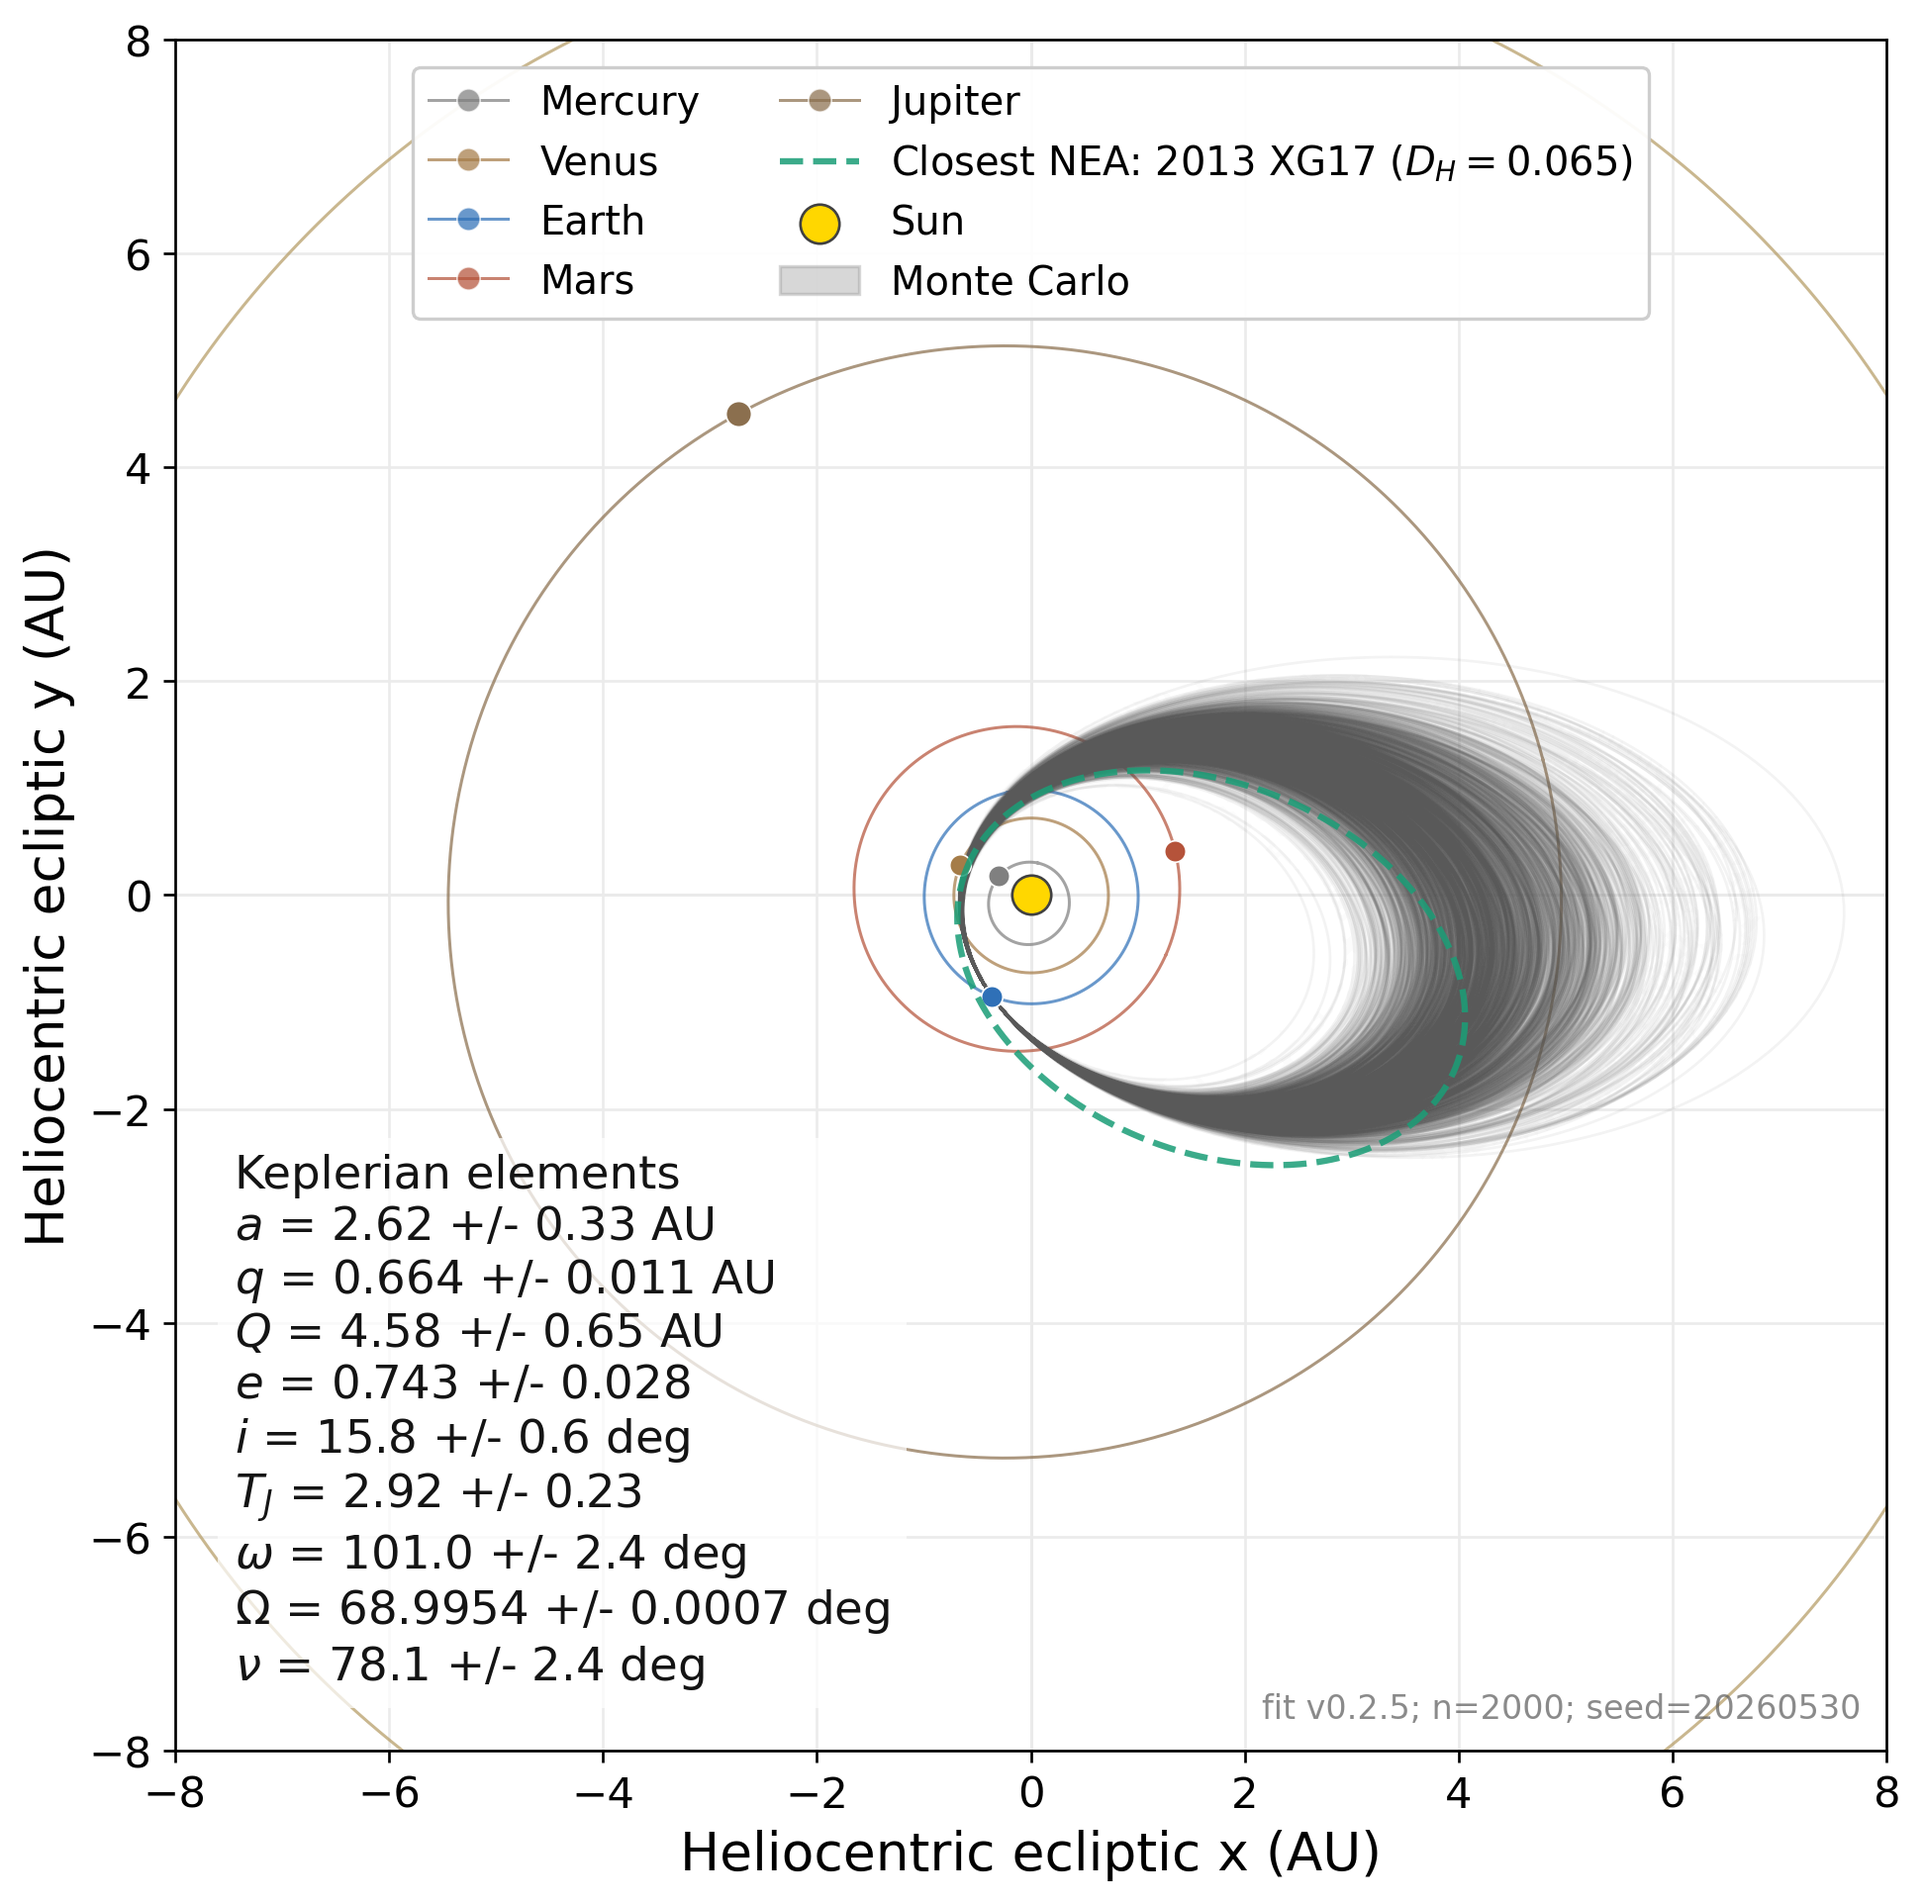
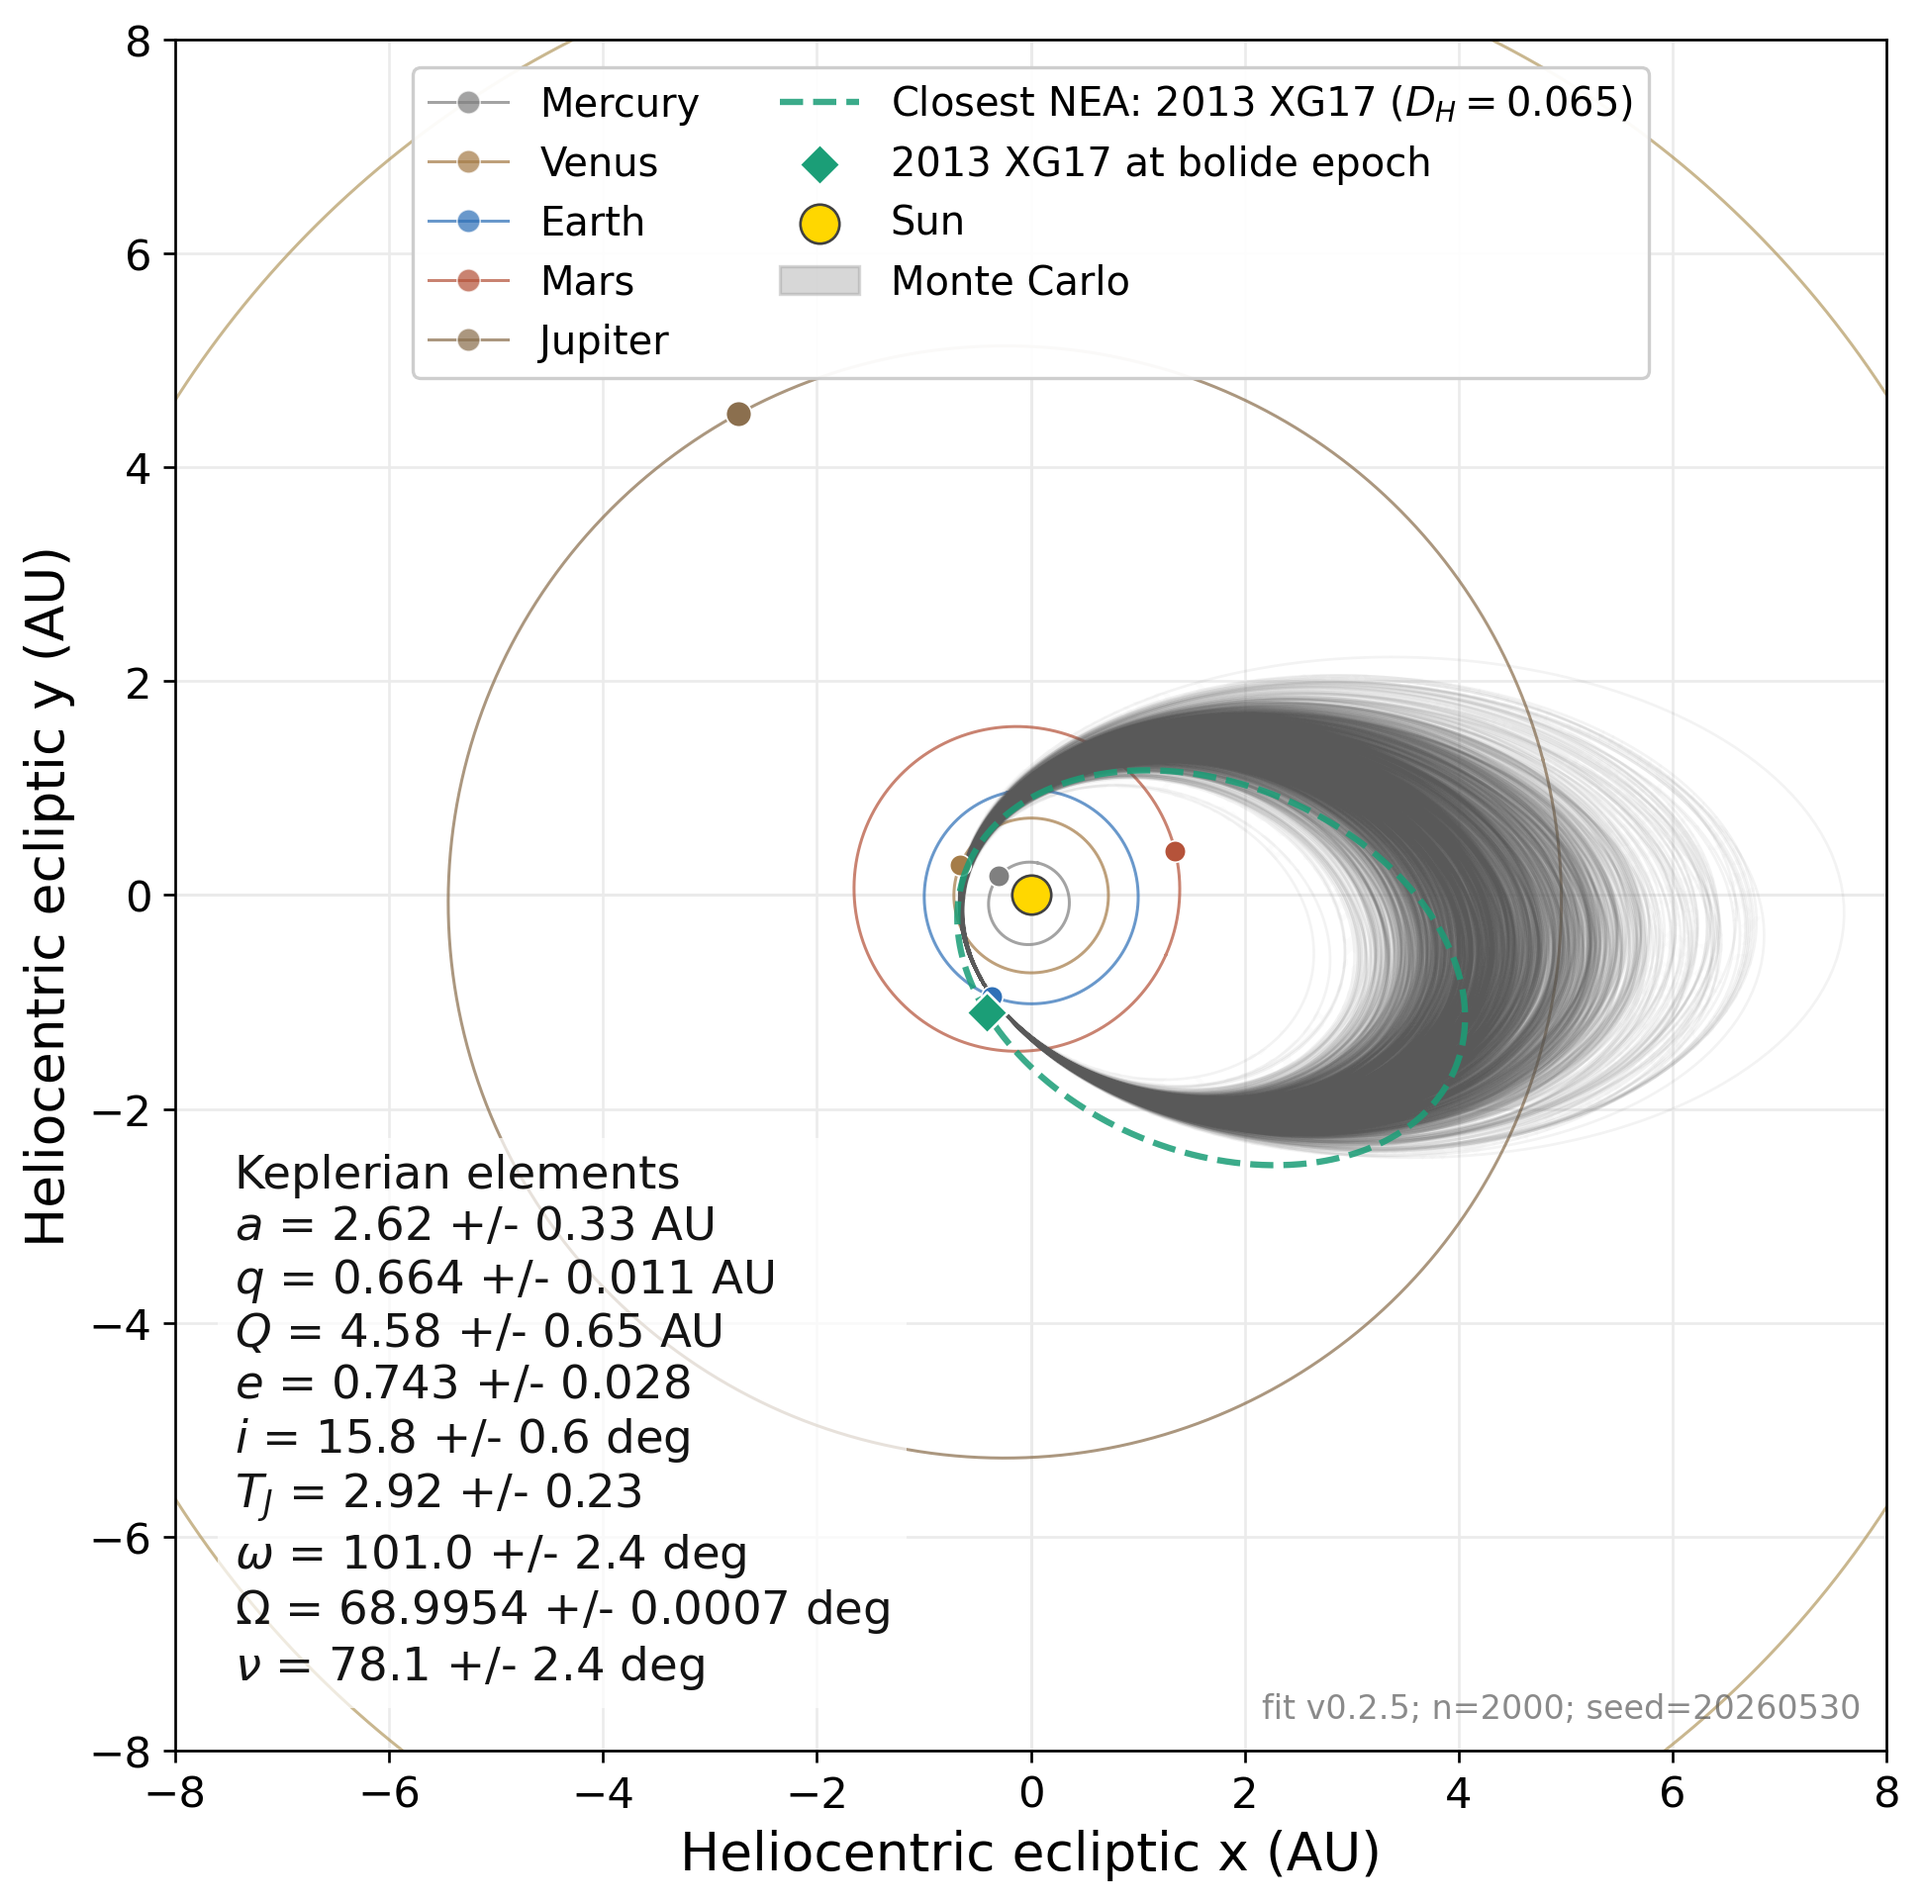
Mark closest NEA position at bolide epoch

diff --git a/plot_orbit_xy.py b/plot_orbit_xy.py
@@ -78,6 +78,25 @@ def true_anomaly_from_mean(mean_anomaly_deg: float, eccentricity: float) -> floa
     return float(np.rad2deg(true_anomaly) % 360.0)
 
 
+def mpc_packed_epoch_to_time(epoch: str) -> Time | None:
+    """Decode a five-character MPC packed epoch such as K25BL."""
+    epoch = epoch.strip()
+    if len(epoch) != 5:
+        return None
+    century_codes = {"I": 1800, "J": 1900, "K": 2000}
+    month_codes = {str(i): i for i in range(1, 10)}
+    month_codes.update({"A": 10, "B": 11, "C": 12})
+    day_codes = {str(i): i for i in range(1, 10)}
+    day_codes.update({chr(ord("A") + i): 10 + i for i in range(22)})
+    try:
+        year = century_codes[epoch[0]] + int(epoch[1:3])
+        month = month_codes[epoch[3]]
+        day = day_codes[epoch[4]]
+        return Time(f"{year:04d}-{month:02d}-{day:02d}T00:00:00", scale="utc")
+    except (KeyError, ValueError):
+        return None
+
+
 def planet_kepler(name: str, epoch: Time) -> np.ndarray:
     elements = PLANETS[name]
     centuries = (epoch.tdb.jd - J2000.jd) / 36525.0
@@ -275,7 +294,7 @@ def kepler_annotation_from_macros(macros: dict[str, str]) -> str | None:
     return "\n".join(lines)
 
 
-def read_closest_nea(path: Path) -> tuple[np.ndarray, str] | None:
+def read_closest_nea(path: Path, target_epoch: Time) -> tuple[np.ndarray, str, str] | None:
     if not path.exists():
         return None
     with path.open("r", encoding="utf-8", newline="") as fh:
@@ -289,13 +308,18 @@ def read_closest_nea(path: Path) -> tuple[np.ndarray, str] | None:
         argp = float(row["omega_deg"])
         raan = float(row["node_deg"])
         mean_anomaly = float(row["M_deg"])
+        mean_motion = float(row["n_deg_day"])
         dh = float(row["D_H"])
     except (KeyError, TypeError, ValueError):
         return None
+    catalog_epoch = mpc_packed_epoch_to_time(row.get("epoch", ""))
+    if catalog_epoch is not None:
+        mean_anomaly = mean_anomaly + mean_motion * (target_epoch.utc.jd - catalog_epoch.utc.jd)
     true_anomaly = true_anomaly_from_mean(mean_anomaly, e)
     name = row.get("name", "").strip() or row.get("number", "").strip() or "catalogue NEA"
-    label = f"Closest NEA: {name} ($D_H={dh:.3f}$)"
-    return np.array([a_au * AU, e, inc, argp, raan, true_anomaly], dtype=float), label
+    orbit_label = f"Closest NEA: {name} ($D_H={dh:.3f}$)"
+    position_label = f"{name} at bolide epoch"
+    return np.array([a_au * AU, e, inc, argp, raan, true_anomaly], dtype=float), orbit_label, position_label
 
 
 def draw_orbits(
@@ -305,7 +329,7 @@ def draw_orbits(
     epoch: Time,
     limits: tuple[float, float],
     label_names: set[str],
-    closest_nea: tuple[np.ndarray, str] | None,
+    closest_nea: tuple[np.ndarray, str, str] | None,
 ) -> int:
     for name in PLANETS:
         color = PLANET_COLORS[name]
@@ -366,9 +390,23 @@ def draw_orbits(
         now = orb_now.cartesian[:2, 0] / AU
         ax.scatter(now[0], now[1], marker="*", s=145, color="#d62728", edgecolor="white", linewidth=0.8, zorder=9, label="Nominal epoch state")
     if closest_nea is not None:
-        nea_kep, nea_label = closest_nea
+        nea_kep, nea_label, nea_position_label = closest_nea
         nx, ny = kepler_to_xy(nea_kep, n_points=1000)
         ax.plot(nx, ny, color="#1b9e77", lw=1.9, ls="--", alpha=0.86, label=nea_label, zorder=7)
+        nea_now = pyorb.Orbit(M0=pyorb.M_sol, degrees=True, type="true", num=1)
+        nea_now.kepler = nea_kep[:, None]
+        px, py = nea_now.cartesian[:2, 0] / AU
+        ax.scatter(
+            px,
+            py,
+            marker="D",
+            s=78,
+            color="#1b9e77",
+            edgecolor="white",
+            linewidth=0.8,
+            zorder=9,
+            label=nea_position_label,
+        )
     ax.scatter(0.0, 0.0, s=140, color="gold", edgecolor="0.25", linewidth=0.8, zorder=10, label="Sun")
     return finite_samples
 
@@ -409,7 +447,7 @@ def plot(args: argparse.Namespace) -> None:
     metadata = read_orbit_metadata(args.orbit_h5)
     validate_macro_metadata(macros, metadata)
     epoch = Time(t_ref_unix, scale="utc", format="unix")
-    closest_nea = read_closest_nea(args.nea_matches)
+    closest_nea = read_closest_nea(args.nea_matches, epoch)
 
     args.out.parent.mkdir(parents=True, exist_ok=True)
     plt.rcParams.update(
